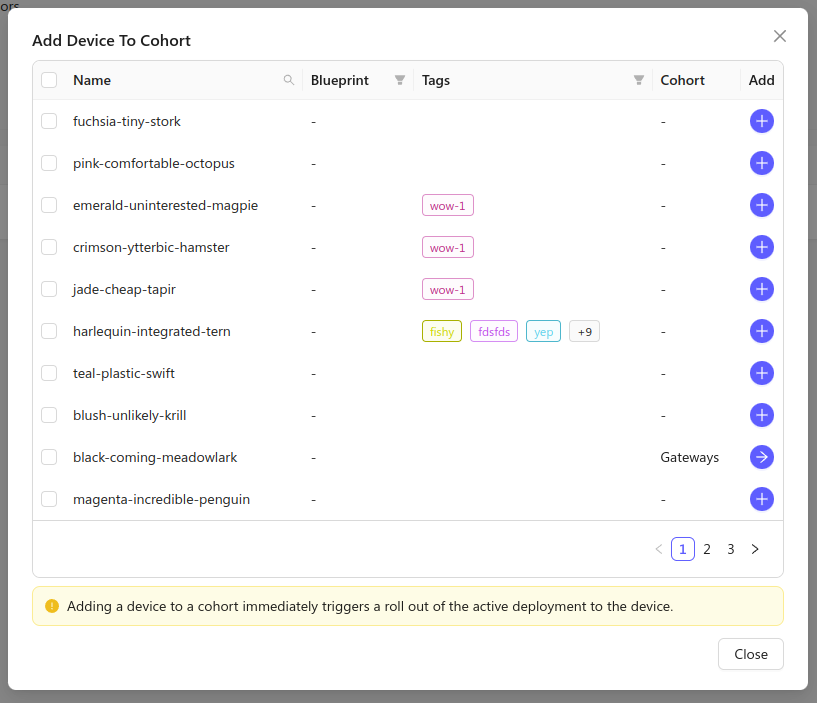
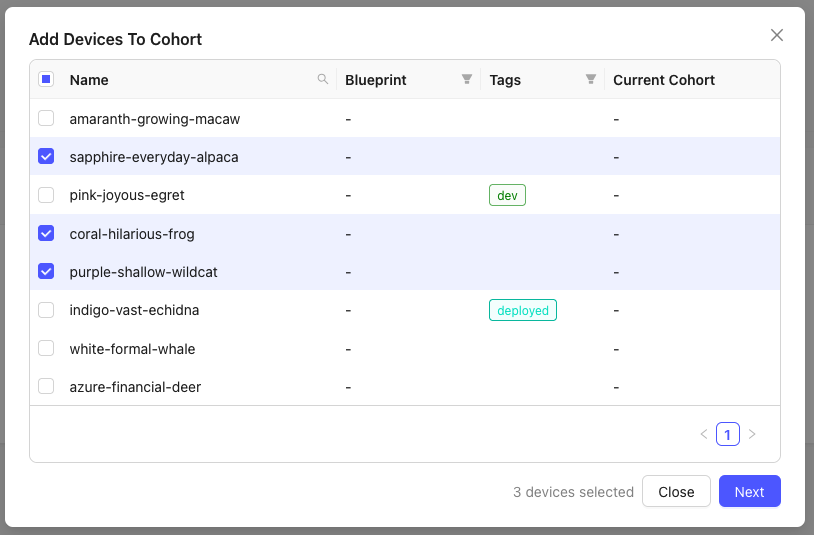
fix: Zephyr Firmware Update Example Walkthrough

diff --git a/docs/firmware/golioth-firmware-sdk/firmware-upgrade/fw-update-zephyr.md b/docs/firmware/golioth-firmware-sdk/firmware-upgrade/fw-update-zephyr.md
@@ -6,10 +6,10 @@ sidebar_position: 2
 Over-the-Air (OTA) updates are a type of Device Firmware Upgrade (DFU). In this
 page we'll walk through the FW Update sample found in [the Zephyr
 port of the Golioth Firmware
-SDK](https://github.com/golioth/golioth-zephyr-sdk/tree/main/samples/fw_update),
+SDK](https://github.com/golioth/golioth-firmware-sdk/tree/main/examples/zephyr/fw_update),
 which shows how to use the Golioth OTA update service.
 
-We will target the Nordic nRF9160dk (Using the NCS version of Zephyr), however
+We will target the Nordic nRF9160 DK (using the NCS version of Zephyr), however
 these step are portable to all other supported boards.
 
 ## Overview
@@ -25,7 +25,7 @@ updated firmware version and report the results to the Golioth Console.
 2. Build and flash the initial FW Update sample application
 3. Upload the signed/versioned firmware as an artifact
 4. Create a release from the artifact and roll it out to the device
-5. Observe the device reporting the update version number
+5. Observe the device reporting the updated version number
 
 ## Running the OTA Sample
 
@@ -55,17 +55,17 @@ west build -b nrf9160dk/nrf9160/ns --sysbuild examples/zephyr/fw_update
 west flash
 ```
 
-By default this will build and run version `v1.2.3` firmware on the Nordic
+By default, this will build and run firmware version `1.2.3` on the Nordic
 nRF9160 development kit.
-
-:::
 
 ### 3. Rebuild firmware with new version number
 
-Now update the firmware version in the project `prj.conf` file:
+Now update the firmware version in the project `VERSION` file:
 
 ```cfg
-CONFIG_MCUBOOT_IMGTOOL_SIGN_VERSION="1.2.4"
+VERSION_MAJOR = 1
+VERSION_MINOR = 2
+PATCHLEVEL = 4
 ```
 
 Then build the application a second time.
@@ -96,8 +96,9 @@ optionally add a short description.
 
 ### 5. Upload the firmware binary
 
-The binary we built is located at `build/zephyr/app_update.bin` and can now be
-used to create a new version of the `main` package on the Golioth Console.
+The binary we built is located at `build/fw_update/zephyr/zephyr.signed.bin`
+and can now be used to create a new version of the `main` package on the
+Golioth Console.
 
 In the Golioth Console, go to **Firmware Updates&rarr;Packages** in the left
 sidebar and open the `main` package in the list of packages, then click `New
@@ -106,11 +107,12 @@ Version`.
 ![Upload an artifact in the Golioth
 Console](assets/golioth-OTA-upload-artifact.png)
 
-* Set the **Artifact Version to 1.2.6** (to match what was compiled into the
+* Set the **Artifact Version to 1.2.4** (to match what was compiled into the
   firmware)
 * Click the upload button in the middle of the window and choose your
-  `golioth_basics.bin` file.
-* Click the **Upload Artifact** button to finish creating an artifact.
+  `zephyr.signed.bin` file
+* Click the **Upload New Version** button to finish creating a new package
+  version
 
 ### 6. Assign the device to a Cohort
 
@@ -120,21 +122,27 @@ the same OTA updates.
 
 First, we need to create a new Cohort for this device type. In the Golioth
 Console, go to **Firmware Updates&rarr;Cohorts** in the left sidebar and click
-the Create button. Select a name for your Cohort and click `Create`.
+the `Create Cohort` button. Select a name for your Cohort and click `Create`.
 
 Next, we need to assign our device to this new Cohort. In the Cohort page, click
-`Add Devices`, and find your device in the list. Click the Add button on the
-right hand side of the device to assign it to the Cohort.
+`Add Devices`, and find your device in the list. Select the checkbox on the left
+hand side of the device to assign it to the Cohort, then click the `Next` button.
 
 ![Assign device to a Cohort in the Golioth
 Console](assets/golioth-OTA-add-to-cohort.png)
+
+In the following window, confirm the devices to be added to the Cohort by clicking
+the `Add` button.
+
+![Confirm adding a device to a Cohort in the Golioth
+Console](assets/golioth-OTA-confirm-add-to-cohort.png)
 
 ### 7. Create a deployment
 
 OTA updates are rolled out to a Cohort as Deployments. To start a new update for
 our device, go to the Cohort's page in the Golioth Console and click `Deploy`.
 Add the `main` package to the deployment, and make sure it's set to version
-1.2.6. You can optionally pick a name for your deployment.
+`1.2.4`. You can optionally pick a name for your deployment.
 
 ![Create a Deployment in the Golioth
 Console](assets/golioth-OTA-create-deployment.png)
@@ -149,7 +157,7 @@ and ensure that it can be run before switching. Once the new version is running,
 the device will report the version to Golioth which can be viewed in the
 Firmware tab of the Golioth Console.
 
-![Golioth Console showing firmware version](../../assets/golioth-console-firmware-version.png)
+![Golioth Console showing firmware version](assets/golioth-console-firmware-version.png)
 
 ## Summary
 
